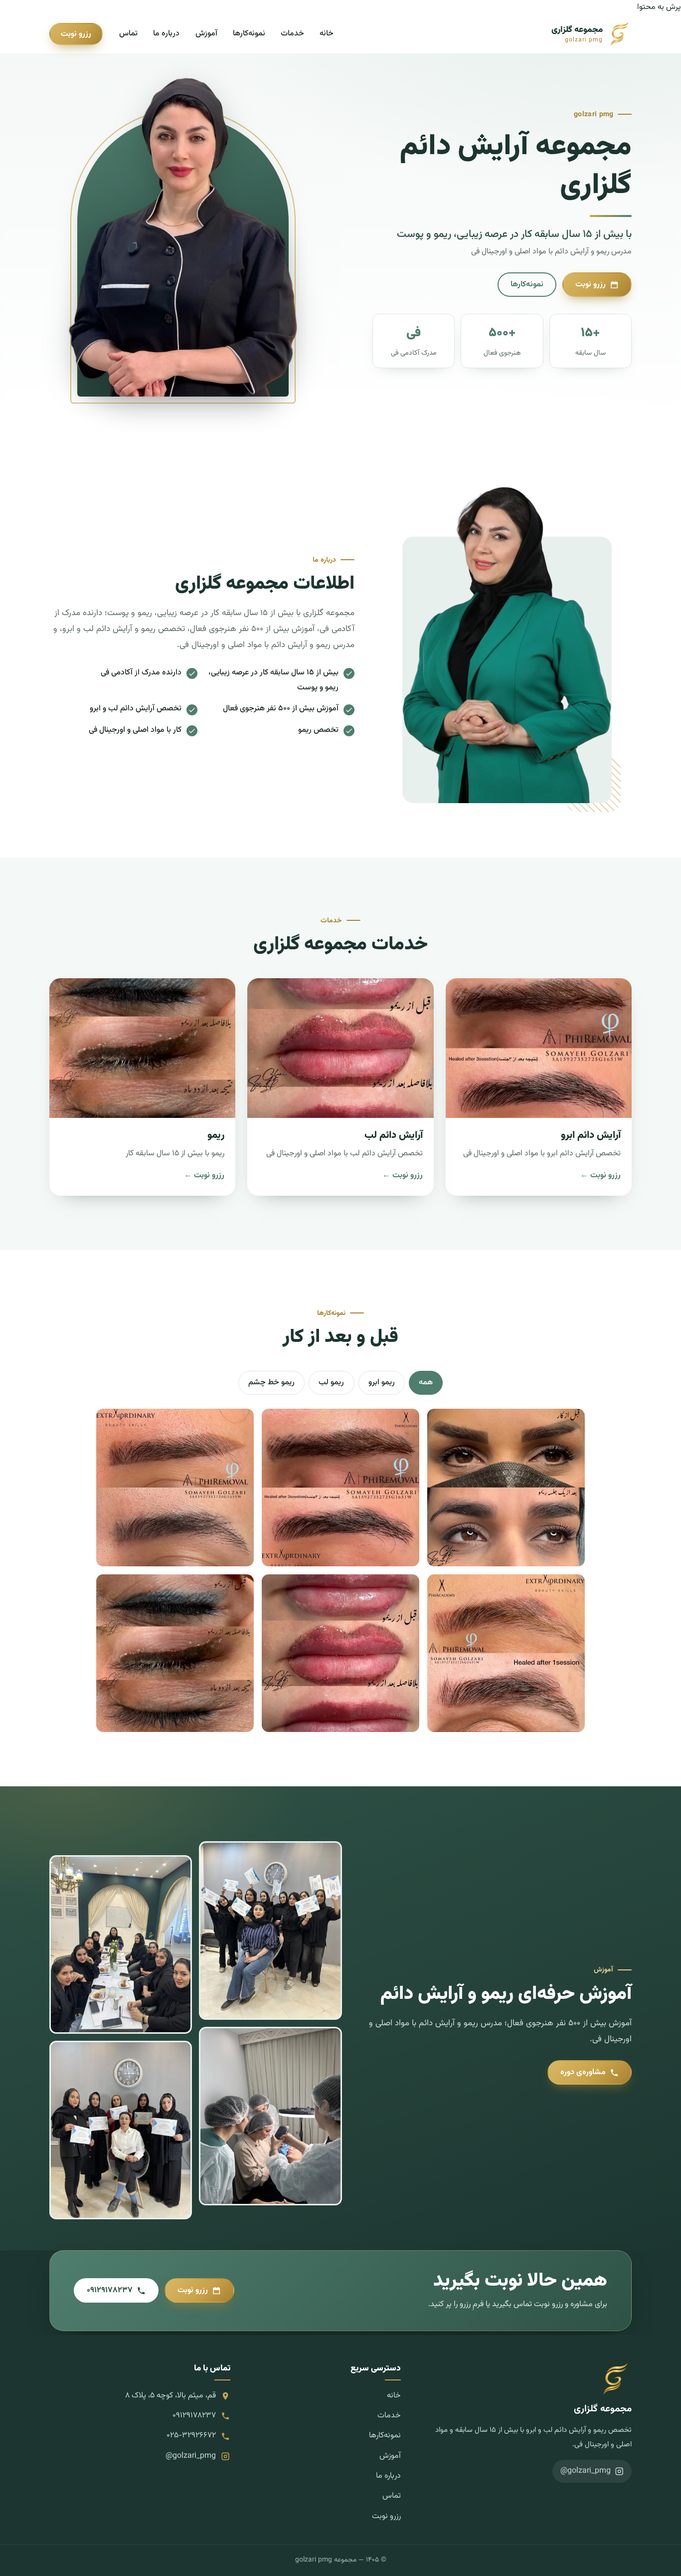
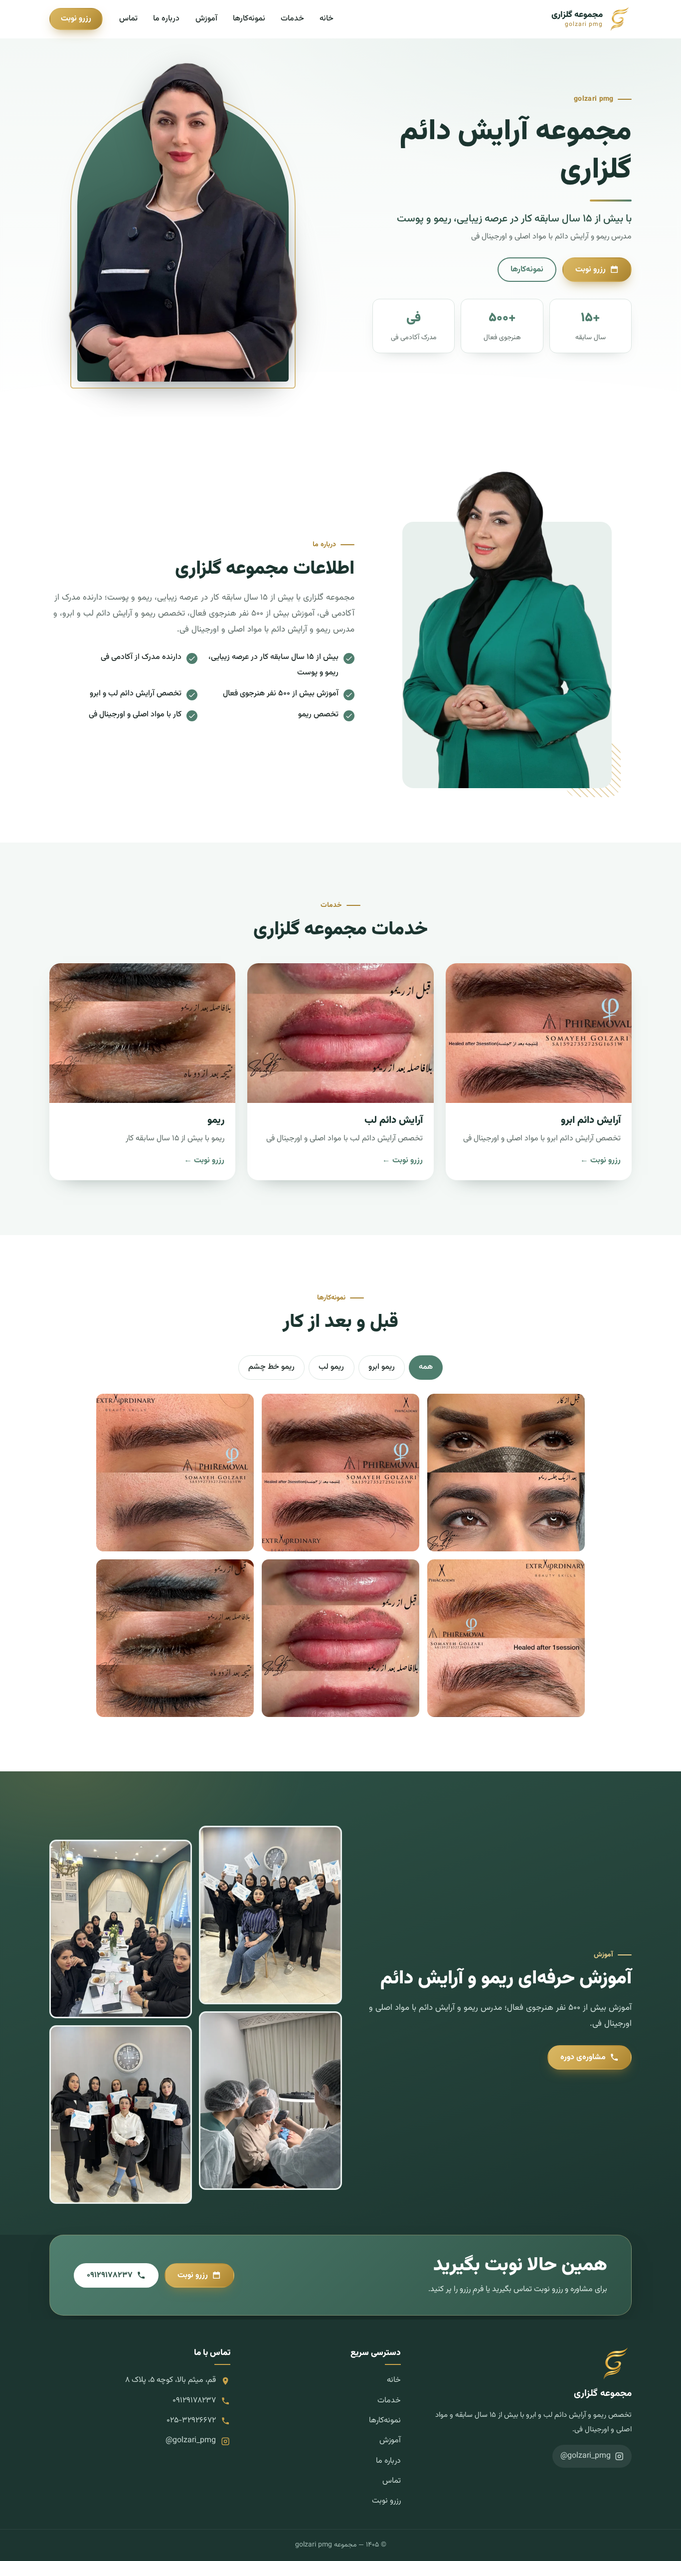
عکس home-desktop.png

diff --git a/home-desktop.html b/home-desktop.html
@@ -16,17 +16,14 @@ img:is([sizes=auto i],[sizes^="auto," i]){contain-intrinsic-size:3000px 1500px}
 /*# sourceURL=wp-img-auto-sizes-contain-inline-css */
 </style>
 <link rel='stylesheet' id='dashicons-css' href='https://golzaripmg.ir/wp-includes/css/dashicons.min.css?ver=7.1.4' media='all' />
-<link rel='stylesheet' id='golzari-home-css' href='https://golzaripmg.ir/wp-content/plugins/golzari-brand/assets/home.css?ver=2.0.0' media='all' />
-<link rel='stylesheet' id='elementor-icons-shared-0-css' href='https://golzaripmg.ir/wp-content/plugins/elementor/assets/lib/font-awesome/css/fontawesome.min.css?ver=5.15.3' media='all' />
-<link rel='stylesheet' id='elementor-icons-fa-regular-css' href='https://golzaripmg.ir/wp-content/plugins/elementor/assets/lib/font-awesome/css/regular.min.css?ver=5.15.3' media='all' />
-<link rel='stylesheet' id='elementor-icons-fa-solid-css' href='https://golzaripmg.ir/wp-content/plugins/elementor/assets/lib/font-awesome/css/solid.min.css?ver=5.15.3' media='all' />
+<link rel='stylesheet' id='golzari-home-css' href='https://golzaripmg.ir/wp-content/plugins/golzari-brand/assets/home.css?ver=2.0.1' media='all' />
 <link rel="https://api.w.org/" href="https://golzaripmg.ir/wp-json/" /><link rel="alternate" title="JSON" type="application/json" href="https://golzaripmg.ir/wp-json/wp/v2/pages/2125" /><link rel="EditURI" type="application/rsd+xml" title="RSD" href="https://golzaripmg.ir/xmlrpc.php?rsd" />
 <meta name="generator" content="WordPress 7.1.4" />
 <link rel="canonical" href="https://golzaripmg.ir/" />
 <link rel='shortlink' href='https://golzaripmg.ir/' />
-<noscript><link rel='stylesheet' href='https://golzaripmg.ir/wp-content/themes/zibanoo/static/bundle/no-scripts.min.css' type='text/css'></noscript>
+
 <style id="ct-main-styles-inline-css">[data-header*="VDpqem"] {--has-transparent-header:1;}</style>
-<meta name="generator" content="Elementor 4.2.1; settings: css_print_method-external, google_font-disabled, font_display-auto">
+
 			<style>
 				.e-con.e-parent:nth-of-type(n+4):not(.e-lazyloaded):not(.e-no-lazyload),
 				.e-con.e-parent:nth-of-type(n+4):not(.e-lazyloaded):not(.e-no-lazyload) * {
@@ -45,58 +42,18 @@ img:is([sizes=auto i],[sizes^="auto," i]){contain-intrinsic-size:3000px 1500px}
 					}
 				}
 			</style>
-			<link rel="icon" href="https://golzaripmg.ir/wp-content/plugins/golzari-brand/assets/icon-32.png?ver=2.0.0" sizes="32x32" />
-<link rel="icon" href="https://golzaripmg.ir/wp-content/plugins/golzari-brand/assets/icon-192.png?ver=2.0.0" sizes="192x192" />
-<link rel="apple-touch-icon" href="https://golzaripmg.ir/wp-content/plugins/golzari-brand/assets/icon-180.png?ver=2.0.0" />
+			<link rel="icon" href="https://golzaripmg.ir/wp-content/plugins/golzari-brand/assets/icon-32.png?ver=2.0.1" sizes="32x32" />
+<link rel="icon" href="https://golzaripmg.ir/wp-content/plugins/golzari-brand/assets/icon-192.png?ver=2.0.1" sizes="192x192" />
+<link rel="apple-touch-icon" href="https://golzaripmg.ir/wp-content/plugins/golzari-brand/assets/icon-180.png?ver=2.0.1" />
 <meta name="msapplication-TileImage" content="https://golzaripmg.ir/wp-content/uploads/2026/06/cropped-PM-270x270.png" />
-<style id="wp-custom-css">
-#sab-appointment-form label {
-	color: var(--theme-palette-color-6) !important
-}
-.flatpickr-calendar.animate.open.arrowTop, .flatpickr-calendar.animate.open.arrowBottom {
-    width: 310px;
-    direction: rtl;
-    font-family: VazirFN;
-}
-.plus-button, .swal2-confirm {
-    background: var(--e-global-color-noorgfx_palette_1) !important;
-}
-.sab-select-button {
-    background: var(--e-global-color-noorgfx_palette_1) !important;
-	border: none!important;
-}
-.sab-select-button:hover:not(:disabled) {
-    border-color: var(--e-global-color-noorgfx_palette_4) !important;
-    background: var(--e-global-color-noorgfx_palette_4) !important;
-}
-.calendar-day.available {
-    background-color: #ead6f1;
-}
-.swiper-button-next, .swiper-button-prev {
-    color: var(--e-global-color-noorgfx_palette_1) !important;
-}
-.plus-button:hover, .swal2-confirm:hover {
-    background: var(--e-global-color-noorgfx_palette_4) !important;
-}
-.calendar-day.selected {
-    background-color: var(--e-global-color-noorgfx_palette_1) !important;
-    color: white;
-}
-.refresh-btn {
-    font-size: 22px;
-    margin-top: 8px;
-}
-.swal2-html-container .swiper-wrapper {
-    overflow: visible !important;
-}
-</style>
+
 </head>
-<body class="rtl home wp-singular page-template-default page page-id-2125 wp-custom-logo wp-embed-responsive wp-theme-zibanoo gz ally-default elementor-default elementor-kit-5 elementor-page elementor-page-2125 ct-elementor-default-template">
+<body class="rtl home gz">
 <a class="skip-link screen-reader-text" href="#main">پرش به محتوا</a>
 <header class="gz-header" id="gz-header">
 	<div class="gz-wrap gz-header__in">
 		<a class="gz-brand" href="https://golzaripmg.ir/">
-			<img src="https://golzaripmg.ir/wp-content/plugins/golzari-brand/assets/logo.webp?ver=2.0.0" width="512" height="512" alt="گلزاری">
+			<img src="https://golzaripmg.ir/wp-content/plugins/golzari-brand/assets/logo.webp?ver=2.0.1" width="512" height="512" alt="گلزاری">
 			<span><strong>مجموعه گلزاری</strong><small>golzari pmg</small></span>
 		</a>
 		<nav class="gz-nav" id="gz-nav" aria-label="خانه">
@@ -134,7 +91,7 @@ img:is([sizes=auto i],[sizes^="auto," i]){contain-intrinsic-size:3000px 1500px}
 			</div>
 			<div class="gz-hero__media">
 				<div class="gz-arch"></div>
-				<img src="https://golzaripmg.ir/wp-content/plugins/golzari-brand/assets/hero-cut.webp?ver=2.0.0" width="647" height="900" alt="گلزاری" fetchpriority="high">
+				<img src="https://golzaripmg.ir/wp-content/plugins/golzari-brand/assets/hero-cut.webp?ver=2.0.1" width="647" height="900" alt="گلزاری" fetchpriority="high">
 			</div>
 		</div>
 	</section>
@@ -143,7 +100,7 @@ img:is([sizes=auto i],[sizes^="auto," i]){contain-intrinsic-size:3000px 1500px}
 		<div class="gz-wrap gz-about__in">
 			<div class="gz-about__media">
 				<div class="gz-frame"></div>
-				<img src="https://golzaripmg.ir/wp-content/plugins/golzari-brand/assets/about-cut.webp?ver=2.0.0" width="661" height="1000" alt="گلزاری" loading="lazy">
+				<img src="https://golzaripmg.ir/wp-content/plugins/golzari-brand/assets/about-cut.webp?ver=2.0.1" width="661" height="1000" alt="گلزاری" loading="lazy">
 			</div>
 			<div class="gz-about__text">
 				<span class="gz-kicker">درباره ما</span>
@@ -169,7 +126,7 @@ img:is([sizes=auto i],[sizes^="auto," i]){contain-intrinsic-size:3000px 1500px}
 			</div>
 			<div class="gz-cards">
 									<article class="gz-card">
-						<div class="gz-card__img"><img src="https://golzaripmg.ir/wp-content/plugins/golzari-brand/assets/remo-brow-2.webp?ver=2.0.0" alt="آرایش دائم ابرو" loading="lazy"></div>
+						<div class="gz-card__img"><img src="https://golzaripmg.ir/wp-content/plugins/golzari-brand/assets/remo-brow-2.webp?ver=2.0.1" alt="آرایش دائم ابرو" loading="lazy"></div>
 						<div class="gz-card__body">
 							<h3>آرایش دائم ابرو</h3>
 							<p>تخصص آرایش دائم ابرو با مواد اصلی و اورجینال فی</p>
@@ -177,7 +134,7 @@ img:is([sizes=auto i],[sizes^="auto," i]){contain-intrinsic-size:3000px 1500px}
 						</div>
 					</article>
 									<article class="gz-card">
-						<div class="gz-card__img"><img src="https://golzaripmg.ir/wp-content/plugins/golzari-brand/assets/remo-lip.webp?ver=2.0.0" alt="آرایش دائم لب" loading="lazy"></div>
+						<div class="gz-card__img"><img src="https://golzaripmg.ir/wp-content/plugins/golzari-brand/assets/remo-lip.webp?ver=2.0.1" alt="آرایش دائم لب" loading="lazy"></div>
 						<div class="gz-card__body">
 							<h3>آرایش دائم لب</h3>
 							<p>تخصص آرایش دائم لب با مواد اصلی و اورجینال فی</p>
@@ -185,7 +142,7 @@ img:is([sizes=auto i],[sizes^="auto," i]){contain-intrinsic-size:3000px 1500px}
 						</div>
 					</article>
 									<article class="gz-card">
-						<div class="gz-card__img"><img src="https://golzaripmg.ir/wp-content/plugins/golzari-brand/assets/remo-eyeliner.webp?ver=2.0.0" alt="ریمو" loading="lazy"></div>
+						<div class="gz-card__img"><img src="https://golzaripmg.ir/wp-content/plugins/golzari-brand/assets/remo-eyeliner.webp?ver=2.0.1" alt="ریمو" loading="lazy"></div>
 						<div class="gz-card__body">
 							<h3>ریمو</h3>
 							<p>ریمو با بیش از ۱۵ سال سابقه کار</p>
@@ -209,12 +166,12 @@ img:is([sizes=auto i],[sizes^="auto," i]){contain-intrinsic-size:3000px 1500px}
 									<button type="button" data-tab="2">ریمو خط چشم</button>
 							</div>
 			<div class="gz-grid">
-														<a class="gz-grid__item" data-cat="0" href="https://golzaripmg.ir/wp-content/plugins/golzari-brand/assets/remo-brow-1.webp?ver=2.0.0"><img src="https://golzaripmg.ir/wp-content/plugins/golzari-brand/assets/remo-brow-1.webp?ver=2.0.0" alt="ریمو ابرو" loading="lazy"></a>
-														<a class="gz-grid__item" data-cat="0" href="https://golzaripmg.ir/wp-content/plugins/golzari-brand/assets/remo-brow-2.webp?ver=2.0.0"><img src="https://golzaripmg.ir/wp-content/plugins/golzari-brand/assets/remo-brow-2.webp?ver=2.0.0" alt="ریمو ابرو" loading="lazy"></a>
-														<a class="gz-grid__item" data-cat="0" href="https://golzaripmg.ir/wp-content/plugins/golzari-brand/assets/remo-brow-3.webp?ver=2.0.0"><img src="https://golzaripmg.ir/wp-content/plugins/golzari-brand/assets/remo-brow-3.webp?ver=2.0.0" alt="ریمو ابرو" loading="lazy"></a>
-														<a class="gz-grid__item" data-cat="0" href="https://golzaripmg.ir/wp-content/plugins/golzari-brand/assets/remo-brow-4.webp?ver=2.0.0"><img src="https://golzaripmg.ir/wp-content/plugins/golzari-brand/assets/remo-brow-4.webp?ver=2.0.0" alt="ریمو ابرو" loading="lazy"></a>
-														<a class="gz-grid__item" data-cat="1" href="https://golzaripmg.ir/wp-content/plugins/golzari-brand/assets/remo-lip.webp?ver=2.0.0"><img src="https://golzaripmg.ir/wp-content/plugins/golzari-brand/assets/remo-lip.webp?ver=2.0.0" alt="ریمو لب" loading="lazy"></a>
-														<a class="gz-grid__item" data-cat="2" href="https://golzaripmg.ir/wp-content/plugins/golzari-brand/assets/remo-eyeliner.webp?ver=2.0.0"><img src="https://golzaripmg.ir/wp-content/plugins/golzari-brand/assets/remo-eyeliner.webp?ver=2.0.0" alt="ریمو خط چشم" loading="lazy"></a>
+														<a class="gz-grid__item" data-cat="0" href="https://golzaripmg.ir/wp-content/plugins/golzari-brand/assets/remo-brow-1.webp?ver=2.0.1"><img src="https://golzaripmg.ir/wp-content/plugins/golzari-brand/assets/remo-brow-1.webp?ver=2.0.1" alt="ریمو ابرو" loading="lazy"></a>
+														<a class="gz-grid__item" data-cat="0" href="https://golzaripmg.ir/wp-content/plugins/golzari-brand/assets/remo-brow-2.webp?ver=2.0.1"><img src="https://golzaripmg.ir/wp-content/plugins/golzari-brand/assets/remo-brow-2.webp?ver=2.0.1" alt="ریمو ابرو" loading="lazy"></a>
+														<a class="gz-grid__item" data-cat="0" href="https://golzaripmg.ir/wp-content/plugins/golzari-brand/assets/remo-brow-3.webp?ver=2.0.1"><img src="https://golzaripmg.ir/wp-content/plugins/golzari-brand/assets/remo-brow-3.webp?ver=2.0.1" alt="ریمو ابرو" loading="lazy"></a>
+														<a class="gz-grid__item" data-cat="0" href="https://golzaripmg.ir/wp-content/plugins/golzari-brand/assets/remo-brow-4.webp?ver=2.0.1"><img src="https://golzaripmg.ir/wp-content/plugins/golzari-brand/assets/remo-brow-4.webp?ver=2.0.1" alt="ریمو ابرو" loading="lazy"></a>
+														<a class="gz-grid__item" data-cat="1" href="https://golzaripmg.ir/wp-content/plugins/golzari-brand/assets/remo-lip.webp?ver=2.0.1"><img src="https://golzaripmg.ir/wp-content/plugins/golzari-brand/assets/remo-lip.webp?ver=2.0.1" alt="ریمو لب" loading="lazy"></a>
+														<a class="gz-grid__item" data-cat="2" href="https://golzaripmg.ir/wp-content/plugins/golzari-brand/assets/remo-eyeliner.webp?ver=2.0.1"><img src="https://golzaripmg.ir/wp-content/plugins/golzari-brand/assets/remo-eyeliner.webp?ver=2.0.1" alt="ریمو خط چشم" loading="lazy"></a>
 																	</div>
 		</div>
 	</section>
@@ -228,10 +185,10 @@ img:is([sizes=auto i],[sizes^="auto," i]){contain-intrinsic-size:3000px 1500px}
 				<a class="gz-btn gz-btn--gold" href="tel:09129178237"><svg viewBox="0 0 24 24" aria-hidden="true"><path d="M6.6 10.8a15.1 15.1 0 0 0 6.6 6.6l2.2-2.2a1 1 0 0 1 1-.25 11.4 11.4 0 0 0 3.6.57 1 1 0 0 1 1 1V20a1 1 0 0 1-1 1A17 17 0 0 1 3 4a1 1 0 0 1 1-1h3.5a1 1 0 0 1 1 1c0 1.25.2 2.45.57 3.6a1 1 0 0 1-.25 1z"/></svg>مشاورهی دوره</a>
 			</div>
 			<div class="gz-collage">
-									<a class="gz-grid__item" data-cat="3" href="https://golzaripmg.ir/wp-content/plugins/golzari-brand/assets/cert-1.webp?ver=2.0.0"><img src="https://golzaripmg.ir/wp-content/plugins/golzari-brand/assets/cert-1.webp?ver=2.0.0" alt="آموزش" loading="lazy"></a>
-									<a class="gz-grid__item" data-cat="3" href="https://golzaripmg.ir/wp-content/plugins/golzari-brand/assets/class-1.webp?ver=2.0.0"><img src="https://golzaripmg.ir/wp-content/plugins/golzari-brand/assets/class-1.webp?ver=2.0.0" alt="آموزش" loading="lazy"></a>
-									<a class="gz-grid__item" data-cat="3" href="https://golzaripmg.ir/wp-content/plugins/golzari-brand/assets/work-2.webp?ver=2.0.0"><img src="https://golzaripmg.ir/wp-content/plugins/golzari-brand/assets/work-2.webp?ver=2.0.0" alt="آموزش" loading="lazy"></a>
-									<a class="gz-grid__item" data-cat="3" href="https://golzaripmg.ir/wp-content/plugins/golzari-brand/assets/cert-2.webp?ver=2.0.0"><img src="https://golzaripmg.ir/wp-content/plugins/golzari-brand/assets/cert-2.webp?ver=2.0.0" alt="آموزش" loading="lazy"></a>
+									<a class="gz-grid__item" data-cat="3" href="https://golzaripmg.ir/wp-content/plugins/golzari-brand/assets/cert-1.webp?ver=2.0.1"><img src="https://golzaripmg.ir/wp-content/plugins/golzari-brand/assets/cert-1.webp?ver=2.0.1" alt="آموزش" loading="lazy"></a>
+									<a class="gz-grid__item" data-cat="3" href="https://golzaripmg.ir/wp-content/plugins/golzari-brand/assets/class-1.webp?ver=2.0.1"><img src="https://golzaripmg.ir/wp-content/plugins/golzari-brand/assets/class-1.webp?ver=2.0.1" alt="آموزش" loading="lazy"></a>
+									<a class="gz-grid__item" data-cat="3" href="https://golzaripmg.ir/wp-content/plugins/golzari-brand/assets/work-2.webp?ver=2.0.1"><img src="https://golzaripmg.ir/wp-content/plugins/golzari-brand/assets/work-2.webp?ver=2.0.1" alt="آموزش" loading="lazy"></a>
+									<a class="gz-grid__item" data-cat="3" href="https://golzaripmg.ir/wp-content/plugins/golzari-brand/assets/cert-2.webp?ver=2.0.1"><img src="https://golzaripmg.ir/wp-content/plugins/golzari-brand/assets/cert-2.webp?ver=2.0.1" alt="آموزش" loading="lazy"></a>
 							</div>
 		</div>
 	</section>
@@ -254,7 +211,7 @@ img:is([sizes=auto i],[sizes^="auto," i]){contain-intrinsic-size:3000px 1500px}
 <footer class="gz-footer" id="contact">
 	<div class="gz-wrap gz-footer__in">
 		<div class="gz-footer__brand">
-			<img src="https://golzaripmg.ir/wp-content/plugins/golzari-brand/assets/logo.webp?ver=2.0.0" width="512" height="512" alt="گلزاری" loading="lazy">
+			<img src="https://golzaripmg.ir/wp-content/plugins/golzari-brand/assets/logo.webp?ver=2.0.1" width="512" height="512" alt="گلزاری" loading="lazy">
 			<strong>مجموعه گلزاری</strong>
 			<p>تخصص ریمو و آرایش دائم لب و ابرو با بیش از ۱۵ سال سابقه و مواد اصلی و اورجینال فی.</p>
 			<a class="gz-social" href="https://instagram.com/golzari_pmg/" target="_blank" rel="noopener"><svg viewBox="0 0 24 24" aria-hidden="true"><path d="M7 2h10a5 5 0 0 1 5 5v10a5 5 0 0 1-5 5H7a5 5 0 0 1-5-5V7a5 5 0 0 1 5-5zm0 2a3 3 0 0 0-3 3v10a3 3 0 0 0 3 3h10a3 3 0 0 0 3-3V7a3 3 0 0 0-3-3H7zm5 3.5a4.5 4.5 0 1 1 0 9 4.5 4.5 0 0 1 0-9zm0 2a2.5 2.5 0 1 0 0 5 2.5 2.5 0 0 0 0-5zM17.5 6a1 1 0 1 1 0 2 1 1 0 0 1 0-2z"/></svg><span dir="ltr">@golzari_pmg</span></a>
@@ -293,43 +250,7 @@ img:is([sizes=auto i],[sizes^="auto," i]){contain-intrinsic-size:3000px 1500px}
 <script type="speculationrules">
 {"prefetch":[{"source":"document","where":{"and":[{"href_matches":"/*"},{"not":{"href_matches":["/wp-*.php","/wp-admin/*","/wp-content/uploads/*","/wp-content/*","/wp-content/plugins/*","/wp-content/themes/zibanoo/*","/*\\?(.+)"]}},{"not":{"selector_matches":"a[rel~=\"nofollow\"]"}},{"not":{"selector_matches":".no-prefetch, .no-prefetch a"}}]},"eagerness":"conservative"}]}
 </script>
-			<script>
-				const registerAllyAction = () => {
-					if ( ! window?.ElementorProFrontendConfig || ! window?.elementorFrontend?.utils?.urlActions ) {
-						return;
-					}
-
-					elementorFrontend.utils.urlActions.addAction( 'allyWidget:open', () => {
-						if (window?.ea11yWidget?.widget?.open) {
-							return window.ea11yWidget.widget.isOpen()
-								? window.ea11yWidget.widget.close()
-								: window.ea11yWidget.widget.open();
-						}
-					} );
-				};
-
-				const waitingLimit = 30;
-				let retryCounter = 0;
-
-				const waitForElementorPro = () => {
-					return new Promise( ( resolve ) => {
-						const intervalId = setInterval( () => {
-							if ( retryCounter === waitingLimit ) {
-								resolve( null );
-							}
-
-							retryCounter++;
-
-							if ( window.elementorFrontend && window?.elementorFrontend?.utils?.urlActions ) {
-								clearInterval( intervalId );
-								resolve( window.elementorFrontend );
-							}
-								}, 100 ); // Check every 100 milliseconds for availability of elementorFrontend
-					});
-				};
-
-				waitForElementorPro().then( () => { registerAllyAction(); });
-			</script>
+			
 			<div class="ct-drawer-canvas" data-location="end"><div class="ct-drawer-inner">
 	<a href="#main-container" class="ct-back-to-top ct-hidden-sm ct-hidden-md"
 		data-shape="circle"
@@ -338,34 +259,7 @@ img:is([sizes=auto i],[sizes^="auto," i]){contain-intrinsic-size:3000px 1500px}
 
 		<svg class="ct-icon" width="15" height="15" viewBox="0 0 20 20"><path d="M2.3 15.2L10 7.5l7.7 7.6c.6.7 1.2.7 1.8 0 .6-.6.6-1.3 0-1.9l-8.6-8.6c-.2-.3-.5-.4-.9-.4s-.7.1-.9.4L.5 13.2c-.6.6-.6 1.2 0 1.9.6.8 1.2.7 1.8.1z"/></svg>	</a>
 
-	</div></div>			<script>
-				( () => {
-					const lazyloadRunObserver = () => {
-						const lazyloadBackgrounds = document.querySelectorAll( `.e-con.e-parent:not(.e-lazyloaded)` );
-						const lazyloadBackgroundObserver = new IntersectionObserver( ( entries ) => {
-							entries.forEach( ( entry ) => {
-								if ( entry.isIntersecting ) {
-									let lazyloadBackground = entry.target;
-									if( lazyloadBackground ) {
-										lazyloadBackground.classList.add( 'e-lazyloaded' );
-									}
-									lazyloadBackgroundObserver.unobserve( entry.target );
-								}
-							});
-						}, { rootMargin: '200px 0px 200px 0px' } );
-						lazyloadBackgrounds.forEach( ( lazyloadBackground ) => {
-							lazyloadBackgroundObserver.observe( lazyloadBackground );
-						} );
-					};
-					const events = [
-						'DOMContentLoaded',
-						'elementor/lazyload/observe',
-					];
-					events.forEach( ( event ) => {
-						document.addEventListener( event, lazyloadRunObserver );
-					} );
-				} )();
-			</script>
-			<script id="golzari-home-js" src="https://golzaripmg.ir/wp-content/plugins/golzari-brand/assets/home.js?ver=2.0.0"></script>
+	</div></div>			
+			<script id="golzari-home-js" src="https://golzaripmg.ir/wp-content/plugins/golzari-brand/assets/home.js?ver=2.0.1"></script>
 </body>
 </html>
